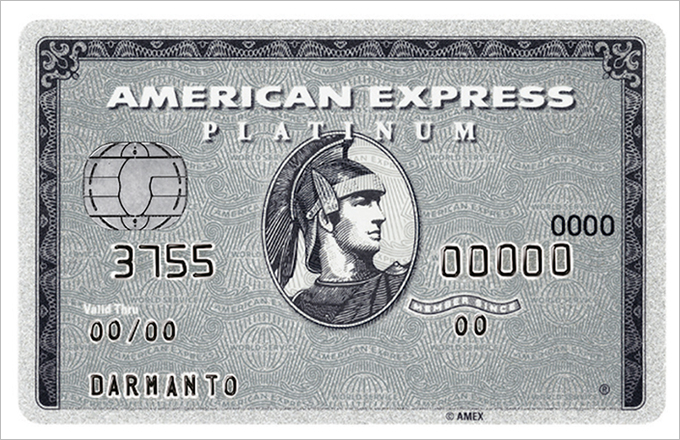
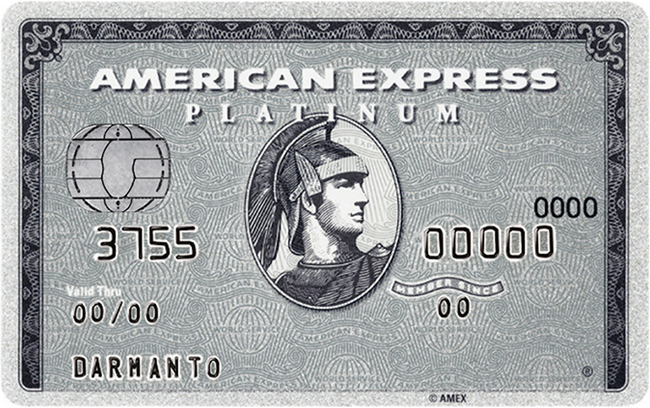
Changed to full width

diff --git a/src/components/CardBox/CardBox.js b/src/components/CardBox/CardBox.js
@@ -27,31 +27,34 @@ export default class CardBox extends Component {
     const img = require('../../images/' + cardKey + '.jpg');
 
     return (
-      <Card className="col-md-3" style={{width: '280px'}}>
-        <CardTitle
-          title={ cardName }
-          subtitle={ issuerName }
-        />
-        <CardMedia
-          aspectRatio="wide"
-          image={ img }
-        />
-        <CardText>Bonus Rewards</CardText>
-        <RatingBar value={ curBonusPrctl } />
-        <CardText>Annual Fee</CardText>
-        <RatingBar type="linear" mode="determinate" value={ annualFeePrctl } />
-        <CardText>Minimum Spend</CardText>
-        <RatingBar type="linear" mode="determinate" value={ minSpendPrctl } />
-        <CardActions>
-          <Button label="Apply" />
-          <Button label="Details" />
-          <Button label="Hide" onMouseUp={this.handleHideClick.bind(this, cardKey)} />
-        </CardActions>
-      </Card>
+      <div className="col-md-4">
+        <Card>
+          <CardTitle
+            title={ cardName }
+            subtitle={ issuerName }
+          />
+          <CardMedia
+            aspectRatio="wide"
+            image={ img }
+          />
+          <CardText>Bonus Rewards</CardText>
+          <RatingBar value={ curBonusPrctl } />
+          <CardText>Annual Fee</CardText>
+          <RatingBar type="linear" mode="determinate" value={ annualFeePrctl } />
+          <CardText>Minimum Spend</CardText>
+          <RatingBar type="linear" mode="determinate" value={ minSpendPrctl } />
+          <CardActions>
+            <Button label="Apply" />
+            <Button label="Details" />
+            <Button label="Hide" onMouseUp={this.handleHideClick.bind(this, cardKey)} />
+          </CardActions>
+        </Card>
+      </div>
     );
   }
 }
 
 
 // <CardText>{dummyText}</CardText>
+//       <Card className="col-md-4" style={{width: '280px'}}>
 

diff --git a/src/containers/App/App.js b/src/containers/App/App.js
@@ -77,12 +77,6 @@ export default class App extends Component {
         </div>
         <InfoBar/>
 
-        <div className="well text-center">
-          Have questions? Ask for help <a
-          href="https://github.com/erikras/react-redux-universal-hot-example/issues"
-          target="_blank">on Github</a> or in the <a
-          href="https://discord.gg/0ZcbPKXt5bZZb1Ko" target="_blank">#react-redux-universal</a> Discord channel.
-        </div>
       </div>
     );
   }

diff --git a/src/containers/Home/Home.js b/src/containers/Home/Home.js
@@ -61,7 +61,7 @@ export default class Credit extends Component {
     const visibleCards = getVisibleCards(all, filter);
 
     return (
-      <div className="container">
+      <div className="container-fluid">
         <div className="col-md-2">
           <h3>Fees</h3>
           <div><FteCheckbox /></div>
